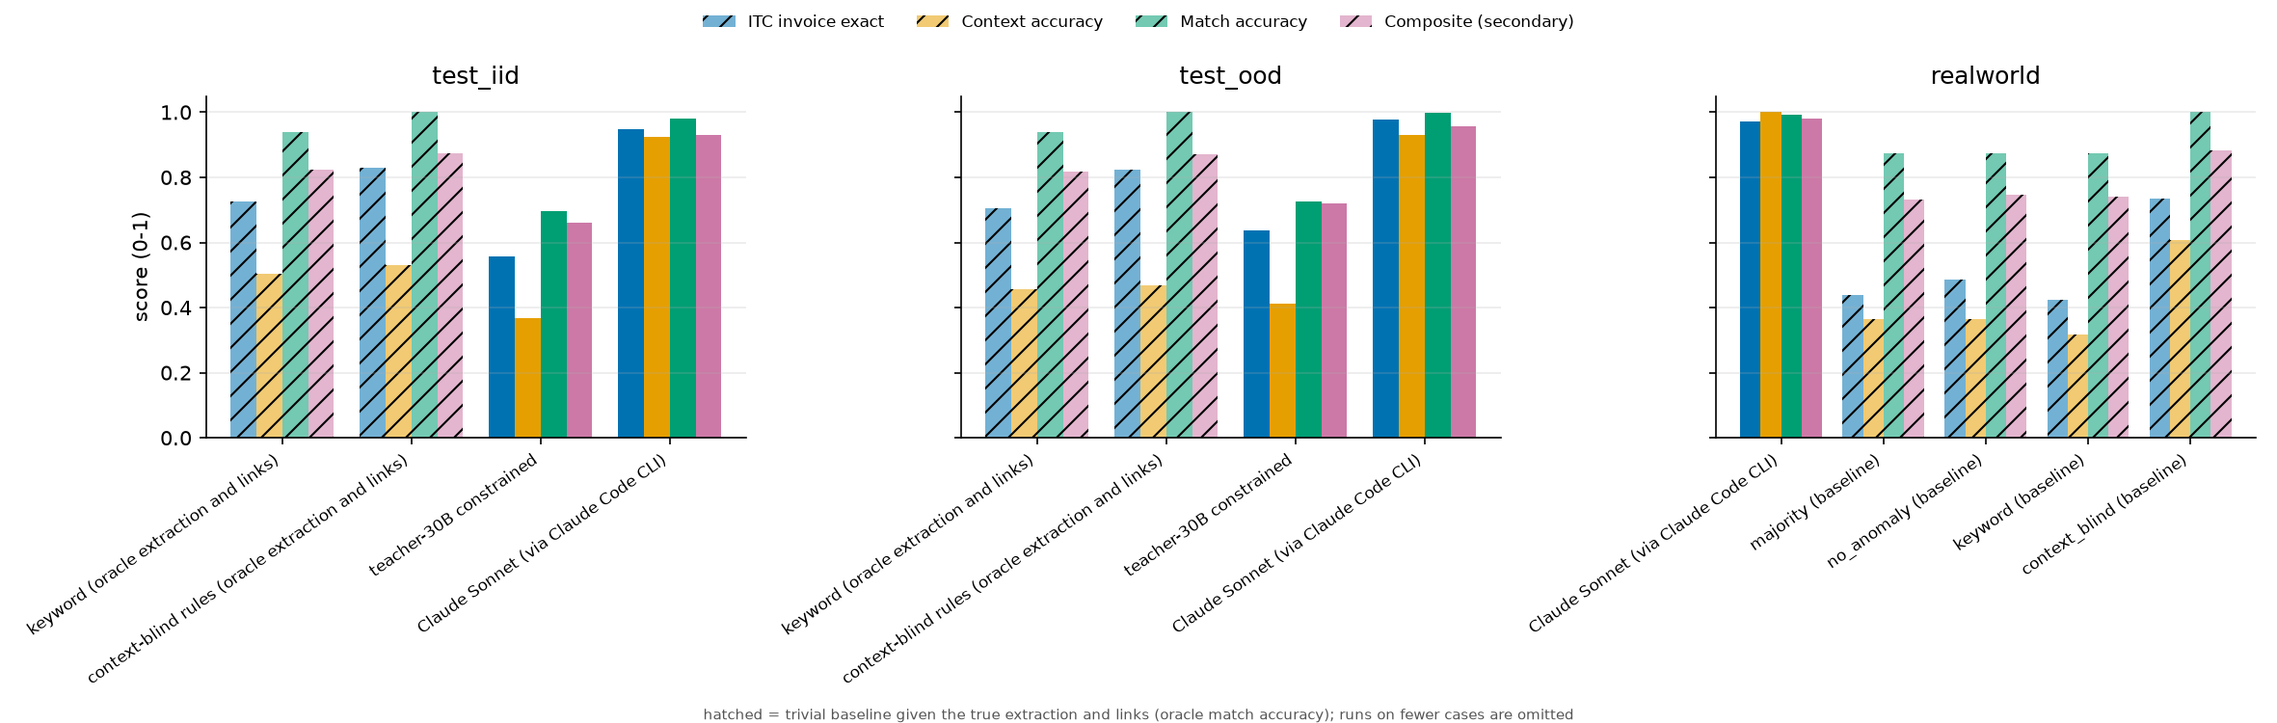
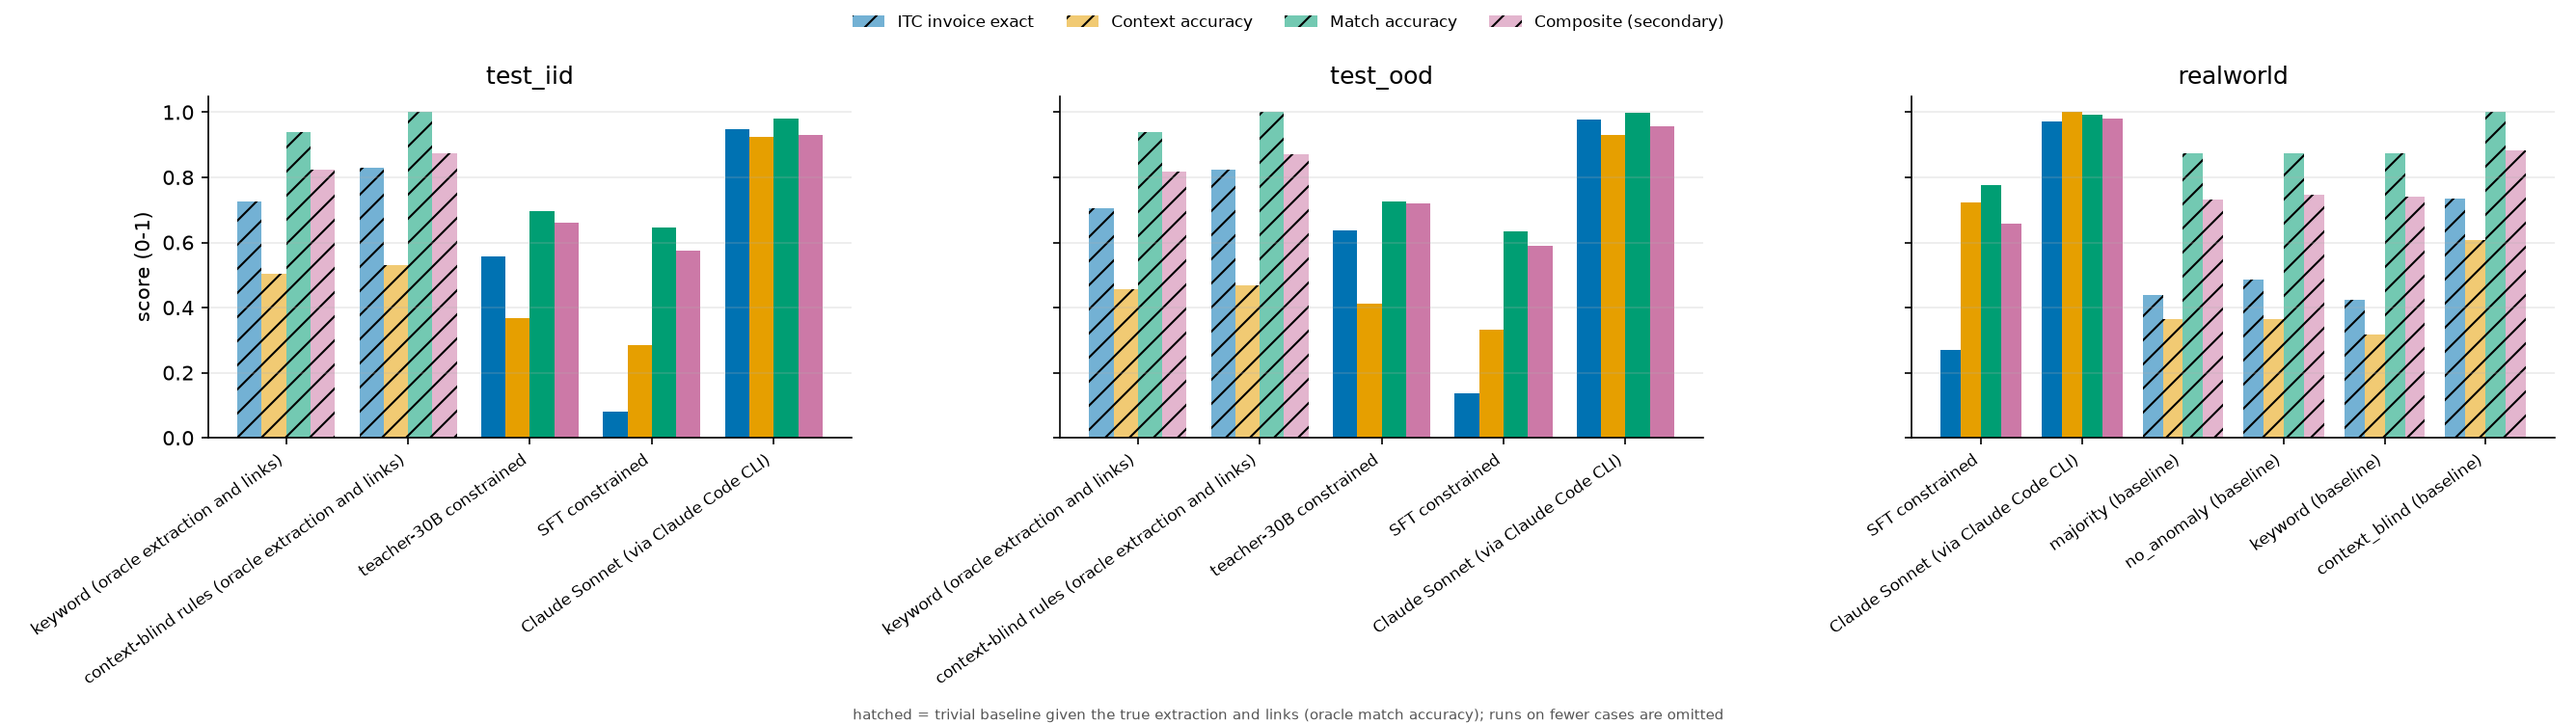
feat(eval): SFT constrained row (132 cases, 64k window) in the results report

diff --git a/reports/results.md b/reports/results.md
@@ -11,9 +11,8 @@ Headline metrics are ITC invoice exact and context accuracy; the composite (the 
 | teacher-30B constrained | 120 | 59.8 [55.6, 63.9] | 38.8 [32.4, 45.0] | 383,144 [295,619, 487,652] | 140,111 [63,289, 230,110] | 509,015 [399,915, 624,934] | 71.1 [66.7, 75.1] | 87.5 [82.8, 91.6] | 92.5 [87.5, 96.7] | 69.1 [65.3, 72.5] |
 | teacher-30B unconstrained | 19 | 14.9 [2.1, 29.8] | 9.1 [0.0, 21.2] | 8,658 [855, 20,755] | 217,067 [78,804, 419,825] | 228,875 [93,895, 431,532] | 16.1 [3.7, 31.8] | 20.4 [5.0, 40.6] | 15.8 [0.0, 31.6] | 15.5 [3.4, 30.5] |
 | teacher-30B constrained (same 19 cases as unconstrained) | 19 | 68.0 [56.7, 78.1] | 47.3 [27.1, 67.3] | 89,025 [25,550, 170,079] | 91,462 [155, 270,666] | 198,476 [65,356, 399,887] | 82.8 [71.0, 90.8] | 92.4 [81.6, 98.2] | 94.7 [84.2, 100.0] | 75.1 [65.4, 81.0] |
+| SFT constrained | 120 | 10.9 [7.4, 14.6] | 30.7 [25.3, 36.1] | 465,489 [352,982, 584,747] | 59,776 [20,725, 116,515] | 402,137 [316,132, 496,334] | 64.0 [61.9, 65.9] | 91.0 [89.2, 92.2] | 99.2 [97.5, 100.0] | 58.2 [56.6, 59.6] |
 | Claude Sonnet (via Claude Code CLI) | 120 | 96.3 [94.3, 97.7] | 92.7 [90.5, 94.6] | 15,306 [7,532, 24,334] | 28,403 [4,860, 61,386] | 43,079 [17,201, 78,166] | 99.0 [97.2, 99.9] | 98.4 [96.7, 99.4] | 99.2 [97.5, 100.0] | 94.4 [92.3, 95.9] |
-| student-base (not run yet) | - | - | - | - | - | - | - | - | - | - |
-| SFT (not run yet) | - | - | - | - | - | - | - | - | - | - |
 | SFT+GRPO (not run yet) | - | - | - | - | - | - | - | - | - | - |
 
 ## Throughput and cost per 1,000 cases
@@ -25,9 +24,8 @@ Headline metrics are ITC invoice exact and context accuracy; the composite (the 
 | teacher-30B constrained | 0.03 | 391 | 134.6 | $20.04 | $224.41 |
 | teacher-30B unconstrained | 0.18 | 288 | 450.6 | $3.87 | $40.79 |
 | teacher-30B constrained (same 19 cases as unconstrained) | 0.03 | 391 | 45.5 | - | - |
+| SFT constrained | 0.04 | 387 | 185.0 | - | - |
 | Claude Sonnet (via Claude Code CLI) | 0.03 | 358 | 67.9 | - | $226.88 |
-| student-base (not run yet) | - | - | - | - | - |
-| SFT (not run yet) | - | - | - | - | - |
 | SFT+GRPO (not run yet) | - | - | - | - | - |
 
 GPU cost = measured wall time x the GPU-hour price passed to `run`. API cost = this run's mean token counts x the list price passed to `run`. Prices are inputs, not facts; `-` means no price was given.
@@ -41,9 +39,8 @@ GPU cost = measured wall time x the GPU-hour price passed to `run`. API cost = t
 | teacher-30B constrained | 60 | 55.7 | 36.7 | 492,270 | 205,132 | 664,436 | 69.6 | 83.7 | 88.3 | 66.1 |
 | teacher-30B unconstrained | 19 | 14.9 | 9.1 | 8,658 | 217,067 | 228,875 | 16.1 | 20.4 | 15.8 | 15.5 |
 | teacher-30B constrained (same 19 cases as unconstrained) | 19 | 68.0 | 47.3 | 89,025 | 91,462 | 198,476 | 82.8 | 92.4 | 94.7 | 75.1 |
+| SFT constrained | 60 | 8.1 | 28.6 | 610,319 | 90,586 | 542,383 | 64.5 | 90.6 | 98.3 | 57.5 |
 | Claude Sonnet (via Claude Code CLI) | 60 | 94.9 | 92.3 | 23,982 | 39,299 | 62,212 | 98.0 | 97.5 | 98.3 | 93.0 |
-| student-base (not run yet) | - | - | - | - | - | - | - | - | - | - |
-| SFT (not run yet) | - | - | - | - | - | - | - | - | - | - |
 | SFT+GRPO (not run yet) | - | - | - | - | - | - | - | - | - | - |
 
 ## test_ood
@@ -53,9 +50,8 @@ GPU cost = measured wall time x the GPU-hour price passed to `run`. API cost = t
 | keyword (oracle extraction and links) | 60 | 70.4 | 45.5 | 246,854 | 40,269 | 246,049 | 93.9 | 100.0 | 100.0 | 81.7 |
 | context-blind rules (oracle extraction and links) | 60 | 82.3 | 46.8 | 58,592 | 95,731 | 130,492 | 100.0 | 100.0 | 100.0 | 87.1 |
 | teacher-30B constrained | 60 | 63.8 | 41.1 | 274,018 | 75,089 | 353,595 | 72.5 | 91.3 | 96.7 | 72.0 |
+| SFT constrained | 60 | 13.7 | 33.2 | 320,659 | 28,966 | 261,891 | 63.5 | 91.4 | 100.0 | 58.9 |
 | Claude Sonnet (via Claude Code CLI) | 60 | 97.8 | 93.1 | 6,629 | 17,506 | 23,946 | 99.9 | 99.4 | 100.0 | 95.8 |
-| student-base (not run yet) | - | - | - | - | - | - | - | - | - | - |
-| SFT (not run yet) | - | - | - | - | - | - | - | - | - | - |
 | SFT+GRPO (not run yet) | - | - | - | - | - | - | - | - | - | - |
 
 ## realworld
@@ -64,13 +60,12 @@ realworld is a sanity split of 12 hand-built cases (not part of the Overall row 
 
 | run | n | ITC invoice exact % | Context acc % | ITC overclaim (Rs) | ITC underclaim (Rs) | ITC net abs err (Rs) | Match acc % | Field F1 % | Schema valid % | Composite (0-100) |
 |---|---|---|---|---|---|---|---|---|---|---|
+| SFT constrained | 12 | 27.1 [13.9, 40.3] | 72.2 [46.7, 90.5] | 35,924 [16,629, 60,077] | 0 [0, 0] | 34,257 [15,349, 58,864] | 77.6 [72.7, 82.5] | 92.1 [89.2, 94.4] | 100.0 [100.0, 100.0] | 65.8 [62.1, 69.7] |
 | Claude Sonnet (via Claude Code CLI) | 12 | 97.2 [91.7, 100.0] | 100.0 [100.0, 100.0] | 0 [0, 0] | 64 [0, 192] | 64 [0, 192] | 99.3 [97.9, 100.0] | 98.8 [97.2, 99.9] | 100.0 [100.0, 100.0] | 97.9 [94.7, 99.8] |
 | baseline: majority | - | 43.8 | 36.4 | - | - | 35,770 | 87.5 | 100.0 | - | 73.1 |
 | baseline: no_anomaly | - | 48.6 | 36.4 | - | - | 34,202 | 87.5 | 100.0 | - | 74.7 |
 | baseline: keyword | - | 42.4 | 31.8 | - | - | 21,201 | 87.5 | 100.0 | - | 73.9 |
 | baseline: context_blind | - | 73.6 | 60.6 | - | - | 25,672 | 100.0 | 100.0 | - | 88.4 |
-| student-base (not run yet) | - | - | - | - | - | - | - | - | - | - |
-| SFT (not run yet) | - | - | - | - | - | - | - | - | - | - |
 | SFT+GRPO (not run yet) | - | - | - | - | - | - | - | - | - | - |
 
 ## By difficulty
@@ -88,6 +83,9 @@ realworld is a sanity split of 12 hand-built cases (not part of the Overall row 
 | teacher-30B constrained | medium | 40 | 64.0 | 44.7 | 312,557 | 49,320 | 386,181 | 75.9 | 93.1 | 97.5 | 73.4 |
 | teacher-30B unconstrained | easy | 19 | 14.9 | 9.1 | 8,658 | 217,067 | 228,875 | 16.1 | 20.4 | 15.8 | 15.5 |
 | teacher-30B constrained (same 19 cases as unconstrained) | easy | 19 | 68.0 | 47.3 | 89,025 | 91,462 | 198,476 | 82.8 | 92.4 | 94.7 | 75.1 |
+| SFT constrained | easy | 40 | 7.8 | 38.4 | 114,584 | 14,415 | 113,935 | 64.5 | 93.4 | 100.0 | 58.2 |
+| SFT constrained | hard | 40 | 16.2 | 29.2 | 936,156 | 139,009 | 716,920 | 59.9 | 87.2 | 97.5 | 57.1 |
+| SFT constrained | medium | 40 | 8.7 | 30.2 | 345,726 | 25,903 | 375,556 | 67.5 | 92.5 | 100.0 | 59.4 |
 | Claude Sonnet (via Claude Code CLI) | easy | 40 | 98.0 | 96.4 | 170 | 148 | 317 | 100.0 | 99.4 | 100.0 | 98.1 |
 | Claude Sonnet (via Claude Code CLI) | hard | 40 | 95.5 | 90.8 | 38,449 | 22,949 | 59,684 | 99.6 | 99.0 | 100.0 | 91.6 |
 | Claude Sonnet (via Claude Code CLI) | medium | 40 | 95.4 | 94.3 | 7,298 | 62,111 | 69,237 | 97.2 | 96.9 | 97.5 | 93.5 |
@@ -116,6 +114,12 @@ realworld is a sanity split of 12 hand-built cases (not part of the Overall row 
 | teacher-30B constrained | test_ood/medium | 20 | 65.8 | 52.1 | 228,850 | 33,295 | 277,593 | 75.8 | 95.0 | 100.0 | 74.5 |
 | teacher-30B unconstrained | test_iid/easy | 19 | 14.9 | 9.1 | 8,658 | 217,067 | 228,875 | 16.1 | 20.4 | 15.8 | 15.5 |
 | teacher-30B constrained (same 19 cases as unconstrained) | test_iid/easy | 19 | 68.0 | 47.3 | 89,025 | 91,462 | 198,476 | 82.8 | 92.4 | 94.7 | 75.1 |
+| SFT constrained | test_iid/easy | 20 | 4.7 | 42.4 | 77,210 | 780 | 72,217 | 65.4 | 93.8 | 100.0 | 57.9 |
+| SFT constrained | test_iid/hard | 20 | 13.0 | 23.4 | 1,331,443 | 254,386 | 1,046,977 | 60.3 | 84.9 | 95.0 | 55.5 |
+| SFT constrained | test_iid/medium | 20 | 6.7 | 33.3 | 422,303 | 16,592 | 507,954 | 67.8 | 93.2 | 100.0 | 59.2 |
+| SFT constrained | test_ood/easy | 20 | 10.8 | 34.0 | 151,958 | 28,050 | 155,654 | 63.6 | 92.9 | 100.0 | 58.4 |
+| SFT constrained | test_ood/hard | 20 | 19.3 | 37.1 | 540,869 | 23,632 | 386,862 | 59.6 | 89.5 | 100.0 | 58.7 |
+| SFT constrained | test_ood/medium | 20 | 10.8 | 27.5 | 269,149 | 35,214 | 243,158 | 67.2 | 91.8 | 100.0 | 59.5 |
 | Claude Sonnet (via Claude Code CLI) | test_iid/easy | 20 | 97.5 | 96.6 | 126 | 295 | 421 | 100.0 | 99.1 | 100.0 | 97.6 |
 | Claude Sonnet (via Claude Code CLI) | test_iid/hard | 20 | 94.7 | 91.3 | 62,176 | 41,251 | 100,564 | 99.5 | 99.0 | 100.0 | 90.8 |
 | Claude Sonnet (via Claude Code CLI) | test_iid/medium | 20 | 92.4 | 92.5 | 9,644 | 76,350 | 85,650 | 94.6 | 94.4 | 95.0 | 90.6 |
@@ -132,6 +136,7 @@ realworld is a sanity split of 12 hand-built cases (not part of the Overall row 
 | teacher-30B constrained | partial | 120 | 59.8 | 38.8 | 383,144 | 140,111 | 509,015 | 71.1 | 87.5 | 92.5 | 69.1 |
 | teacher-30B unconstrained | partial | 19 | 14.9 | 9.1 | 8,658 | 217,067 | 228,875 | 16.1 | 20.4 | 15.8 | 15.5 |
 | teacher-30B constrained (same 19 cases as unconstrained) | partial | 19 | 68.0 | 47.3 | 89,025 | 91,462 | 198,476 | 82.8 | 92.4 | 94.7 | 75.1 |
+| SFT constrained | partial | 120 | 10.9 | 30.7 | 465,489 | 59,776 | 402,137 | 64.0 | 91.0 | 99.2 | 58.2 |
 | Claude Sonnet (via Claude Code CLI) | partial | 120 | 96.3 | 92.7 | 15,306 | 28,403 | 43,079 | 99.0 | 98.4 | 99.2 | 94.4 |
 
 ## By case prompt length (Qwen3 tokens: <=16k, 16-32k, >32k)
@@ -149,26 +154,43 @@ realworld is a sanity split of 12 hand-built cases (not part of the Overall row 
 | teacher-30B constrained | >32k | 13 | 31.7 | 31.6 | 684,097 | 485,666 | 981,528 | 38.0 | 55.8 | 61.5 | 41.4 |
 | teacher-30B unconstrained | <=16k | 19 | 14.9 | 9.1 | 8,658 | 217,067 | 228,875 | 16.1 | 20.4 | 15.8 | 15.5 |
 | teacher-30B constrained (same 19 cases as unconstrained) | <=16k | 19 | 68.0 | 47.3 | 89,025 | 91,462 | 198,476 | 82.8 | 92.4 | 94.7 | 75.1 |
+| SFT constrained | <=16k | 63 | 7.6 | 36.5 | 179,234 | 21,687 | 189,333 | 64.6 | 93.1 | 100.0 | 58.3 |
+| SFT constrained | 16-32k | 44 | 16.7 | 29.1 | 671,189 | 66,890 | 559,355 | 66.8 | 91.1 | 100.0 | 60.5 |
+| SFT constrained | >32k | 13 | 7.3 | 27.0 | 1,156,505 | 220,281 | 901,298 | 51.7 | 80.5 | 92.3 | 50.1 |
 | Claude Sonnet (via Claude Code CLI) | <=16k | 63 | 96.6 | 94.3 | 303 | 31,633 | 31,827 | 98.4 | 97.8 | 98.4 | 96.0 |
 | Claude Sonnet (via Claude Code CLI) | 16-32k | 44 | 96.1 | 92.3 | 29,599 | 14,044 | 42,133 | 99.7 | 99.3 | 100.0 | 93.6 |
 | Claude Sonnet (via Claude Code CLI) | >32k | 13 | 95.5 | 91.4 | 39,635 | 61,345 | 100,812 | 99.3 | 98.9 | 100.0 | 89.2 |
 
-## Paired difference vs teacher-30B constrained
+## Context overflow and truncation by prompt length
+
+| run | length bucket | cases | context overflow | cut at the token cap |
+|---|---|---|---|---|
+| SFT constrained | >32k | 13 | 0 | 1 |
+
+Context overflow = the prompt alone does not fit the server context, so the case scores 0 (what a real deployment at that context would do). Cut at the cap = the reply was truncated and is scored as it stands. Only buckets with at least one are listed.
+
+## Paired difference vs SFT constrained
 
 | run | metric | paired n | delta pts [95% CI] | bootstrap p |
 |---|---|---|---|---|
-| keyword (oracle extraction and links) | itc_invoice | 120 | +11.8 [+8.1, +15.8] | 0.0005 |
-| keyword (oracle extraction and links) | context_acc | 119 | +8.8 [+2.0, +15.7] | 0.0200 |
-| keyword (oracle extraction and links) | composite | 120 | +13.0 [+9.7, +16.7] | 0.0005 |
-| context-blind rules (oracle extraction and links) | itc_invoice | 120 | +22.9 [+18.1, +27.6] | 0.0005 |
-| context-blind rules (oracle extraction and links) | context_acc | 119 | +14.8 [+5.1, +24.4] | 0.0065 |
-| context-blind rules (oracle extraction and links) | composite | 120 | +18.2 [+14.7, +22.2] | 0.0005 |
-| teacher-30B unconstrained | itc_invoice | 19 | -53.1 [-69.4, -34.9] | 0.0005 |
-| teacher-30B unconstrained | context_acc | 19 | -31.9 [-51.2, -14.7] | 0.0015 |
-| teacher-30B unconstrained | composite | 19 | -59.6 [-74.0, -42.8] | 0.0005 |
-| Claude Sonnet (via Claude Code CLI) | itc_invoice | 120 | +36.6 [+32.2, +40.7] | 0.0005 |
-| Claude Sonnet (via Claude Code CLI) | context_acc | 119 | +56.1 [+50.1, +62.6] | 0.0005 |
-| Claude Sonnet (via Claude Code CLI) | composite | 120 | +25.3 [+21.6, +29.2] | 0.0005 |
+| keyword (oracle extraction and links) | itc_invoice | 120 | +60.7 [+56.3, +64.9] | 0.0005 |
+| keyword (oracle extraction and links) | context_acc | 119 | +11.0 [+2.9, +18.5] | 0.0015 |
+| keyword (oracle extraction and links) | composite | 120 | +23.9 [+22.3, +25.5] | 0.0005 |
+| context-blind rules (oracle extraction and links) | itc_invoice | 120 | +71.8 [+67.2, +76.2] | 0.0005 |
+| context-blind rules (oracle extraction and links) | context_acc | 119 | +17.0 [+9.2, +25.4] | 0.0005 |
+| context-blind rules (oracle extraction and links) | composite | 120 | +29.1 [+27.3, +30.9] | 0.0005 |
+| teacher-30B constrained | itc_invoice | 120 | +48.9 [+43.3, +54.5] | 0.0005 |
+| teacher-30B constrained | context_acc | 119 | +2.2 [-7.5, +11.1] | 0.6367 |
+| teacher-30B constrained | composite | 120 | +10.9 [+7.1, +14.4] | 0.0005 |
+| teacher-30B unconstrained | itc_invoice | 19 | +11.9 [-1.2, +27.2] | 0.1004 |
+| teacher-30B unconstrained | context_acc | 19 | -32.2 [-51.9, -13.5] | 0.0010 |
+| teacher-30B unconstrained | composite | 19 | -41.9 [-54.0, -27.2] | 0.0005 |
+| teacher-30B constrained (same 19 cases as unconstrained) | itc_invoice | 19 | +65.0 [+54.2, +74.7] | 0.0005 |
+| teacher-30B constrained (same 19 cases as unconstrained) | context_acc | 19 | -0.3 [-26.1, +26.7] | 0.9870 |
+| teacher-30B constrained (same 19 cases as unconstrained) | composite | 19 | +17.7 [+7.8, +23.6] | 0.0015 |
+| Claude Sonnet (via Claude Code CLI) | itc_invoice | 132 | +84.0 [+79.8, +87.8] | 0.0005 |
+| Claude Sonnet (via Claude Code CLI) | context_acc | 130 | +56.5 [+50.7, +62.0] | 0.0005 |
+| Claude Sonnet (via Claude Code CLI) | composite | 132 | +35.8 [+33.5, +37.8] | 0.0005 |
 
 Paired by case_id; p-value from a centred paired bootstrap (null: zero mean difference).
 
